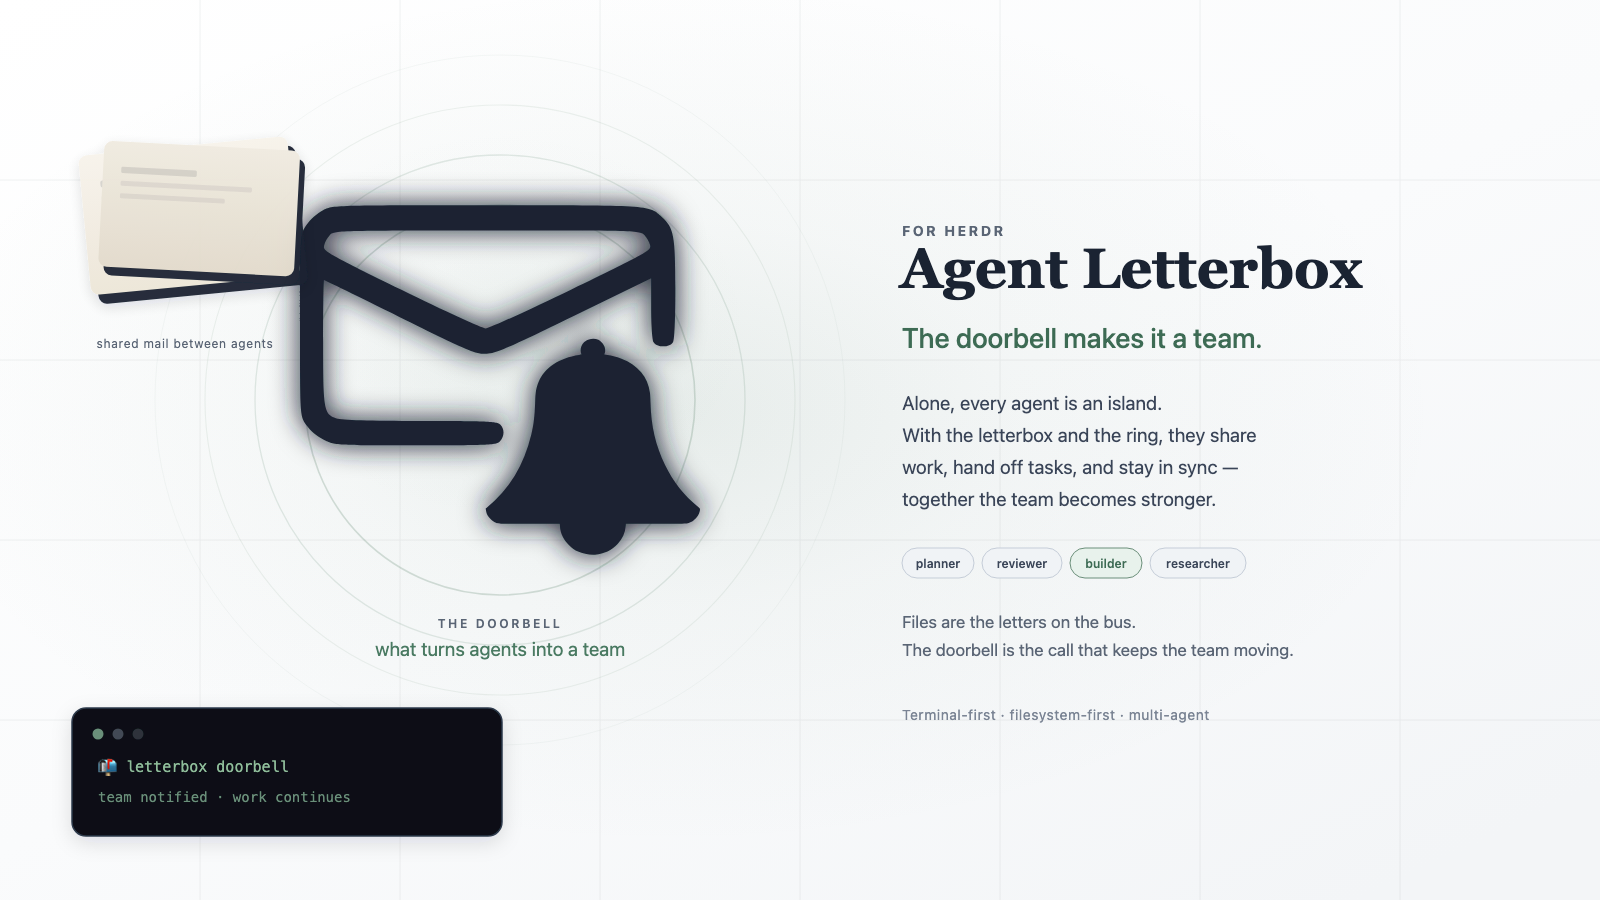
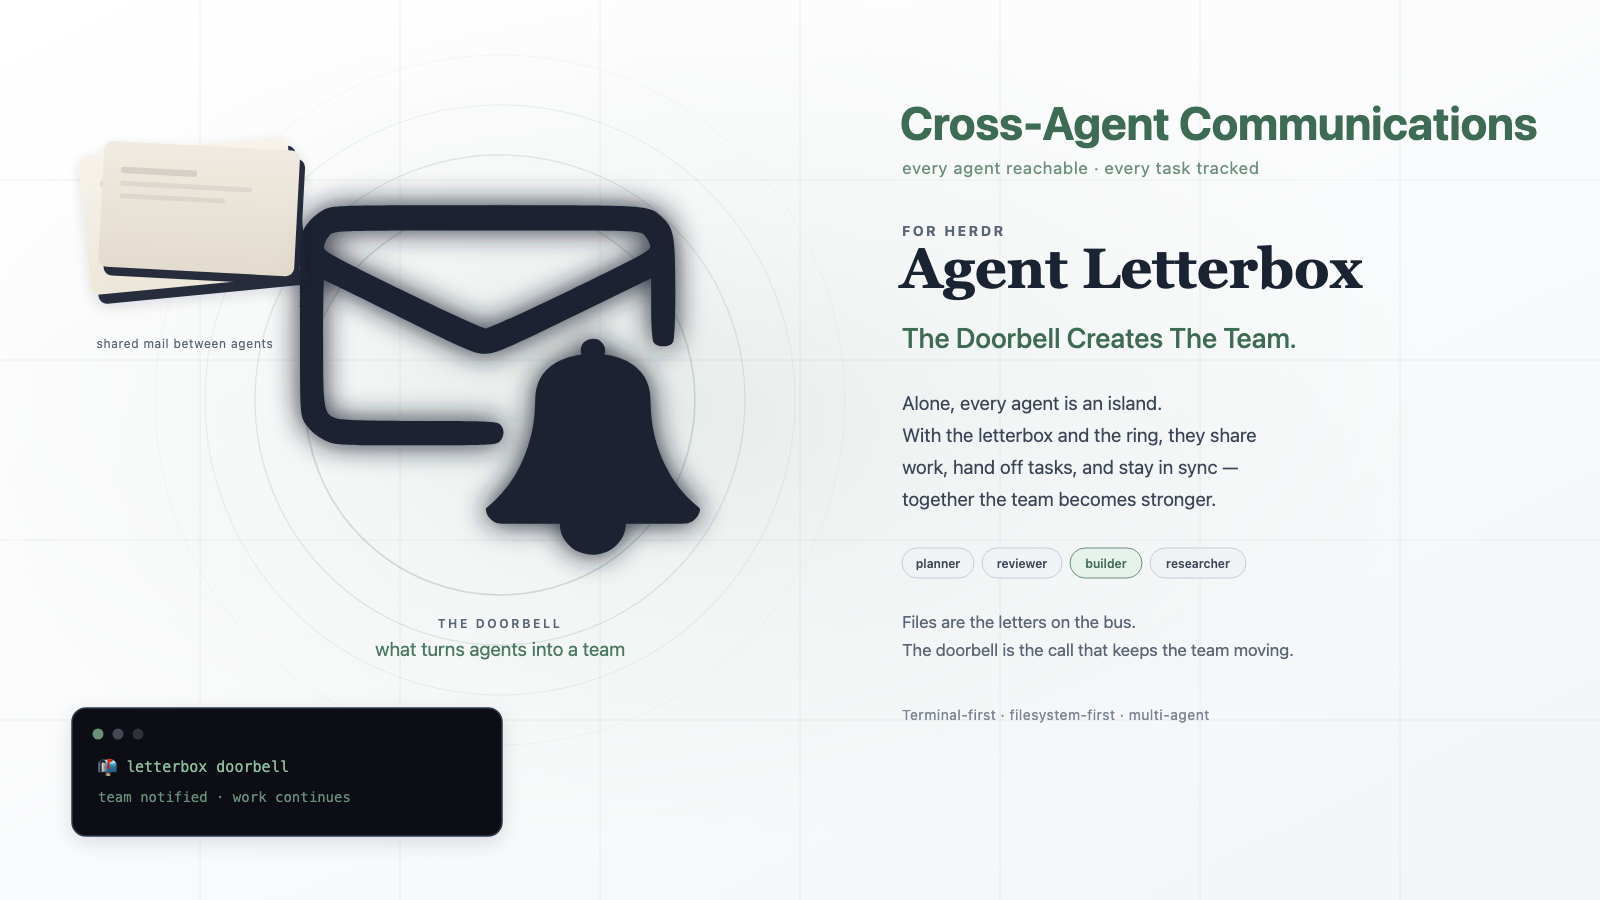
Refresh public Herdr hero messaging

diff --git a/README.md b/README.md
@@ -35,7 +35,7 @@ archive      → recipient processed history
 
 Read the full comparison in [Why Letterbox?](docs/why-letterbox.md).
 
-## v0.2 lifecycle in one screen
+## How a task moves
 
 Public v0.2 is a **correctness** release: acknowledgements no longer file work away.
 
